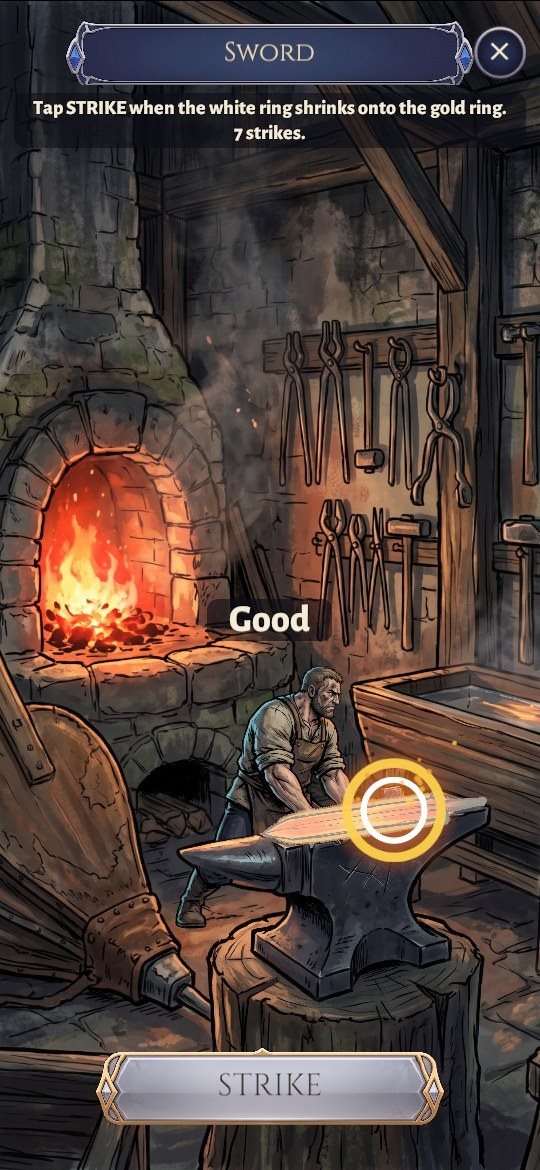
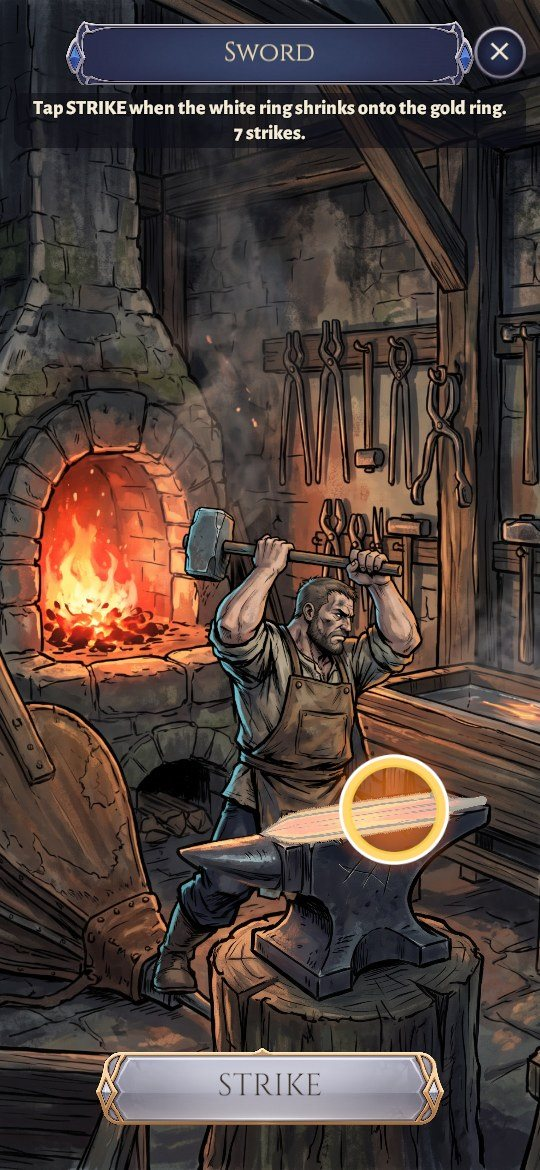
Gloryfield page: real game pictures for the Watch (the region map with unrest, posted and patrol) and the difficulties (the new game screen); the smithy with the smith at his true size

diff --git a/gloryfield/index.html b/gloryfield/index.html
@@ -41,9 +41,6 @@
   .more article > div { padding: 16px 18px 18px; display: grid; gap: 6px; align-content: start; }
   .more h3 { margin: 0; font: 600 1.1rem/1.3 var(--sans); }
   .more p { color: var(--muted); font-size: 0.97rem; }
-  .levels .badges { aspect-ratio: 16 / 9; display: grid; grid-template-columns: 1fr 1fr; grid-template-rows: 1fr 1fr; gap: 10px; padding: 18px; background: linear-gradient(#262e4e, #0f0d12); border-bottom: 1px solid #241f2b; }
-  .levels .badges span { display: grid; place-items: center; border-radius: 6px; font: 700 1.3rem/1 var(--display); letter-spacing: 0.02em; color: #fff; }
-  .levels .easy { background: #3f7a4a; } .levels .medium { background: #3d5f9e; } .levels .hard { background: var(--ossebloed); } .levels .god { background: linear-gradient(#c99a1e, #a77c12); text-shadow: 0 1px 2px rgba(0, 0, 0, 0.45); }
 </style>
 </head>
 <body>
@@ -129,7 +126,7 @@
     </div>
     <div class="pair three">
       <img src="/gloryfield/shots/archery.jpg" alt="Archery: Fenna draws her bow, the wind blows from the left, a gold dot shows where the arrow will land" width="540" height="1170" loading="lazy">
-      <img src="/gloryfield/shots/smithy.jpg" alt="The smithy: strike when the white ring meets the gold ring" width="540" height="1170" loading="lazy">
+      <img src="/gloryfield/shots/smithy.jpg" alt="The smithy: the smith raises his hammer over the glowing blade" width="540" height="1170" loading="lazy">
       <img src="/gloryfield/shots/runes.jpg" alt="The rune chest: find the six rune pairs" width="540" height="1170" loading="lazy">
     </div>
   </section>
@@ -176,9 +173,9 @@
     <h2 id="what">There is always something going on</h2>
     <div class="more">
       <article><img src="/gloryfield/more/market.jpg" alt="The baker and grocer's stall at the travelling market" width="640" height="360" loading="lazy"><div><h3>The travelling market</h3><p>Traders come to town with goods, rare wares and gear. The more towns you free, the bigger the market; bandits on the roads make it smaller.</p></div></article>
-      <article><img src="/gloryfield/more/watch.jpg" alt="The Watch: the unrest in the Mist Marsh, 38%" width="640" height="360" loading="lazy"><div><h3>The Watch</h3><p>The Watchtower sees signs it cannot place. Post legions and send out patrols to keep the Darkness down, the Ash away and your traders safe.</p></div></article>
+      <article><img src="/gloryfield/more/watch.jpg" alt="The Mist Marsh on the campaign map with its unrest, the legions posted and on patrol" width="640" height="360" loading="lazy"><div><h3>The Watch</h3><p>The Watchtower sees signs it cannot place. Post legions and send out patrols to keep the Darkness down, the Ash away and your traders safe.</p></div></article>
       <article><img src="/gloryfield/more/monument.jpg" alt="The Monument" width="640" height="360" loading="lazy"><div><h3>The Monument</h3><p>Daily goals, growth goals and the great deeds of the campaign, each with its reward.</p></div></article>
-      <article class="levels"><div class="badges"><span class="easy">Easy</span><span class="medium">Medium</span><span class="hard">Hard</span><span class="god">God</span></div><div><h3>Four difficulties</h3><p>Easy for the story, Medium as it is meant, Hard for commanders with richer loot, and God to set everything yourself.</p></div></article>
+      <article><img src="/gloryfield/more/difficulty.jpg" alt="Choosing the difficulty for a new game: Easy, Medium (advised), Hard and God" width="640" height="360" loading="lazy"><div><h3>Four difficulties</h3><p>Easy for the story, Medium as it is meant, Hard for commanders with richer loot, and God to set everything yourself.</p></div></article>
     </div>
   </section>
 
